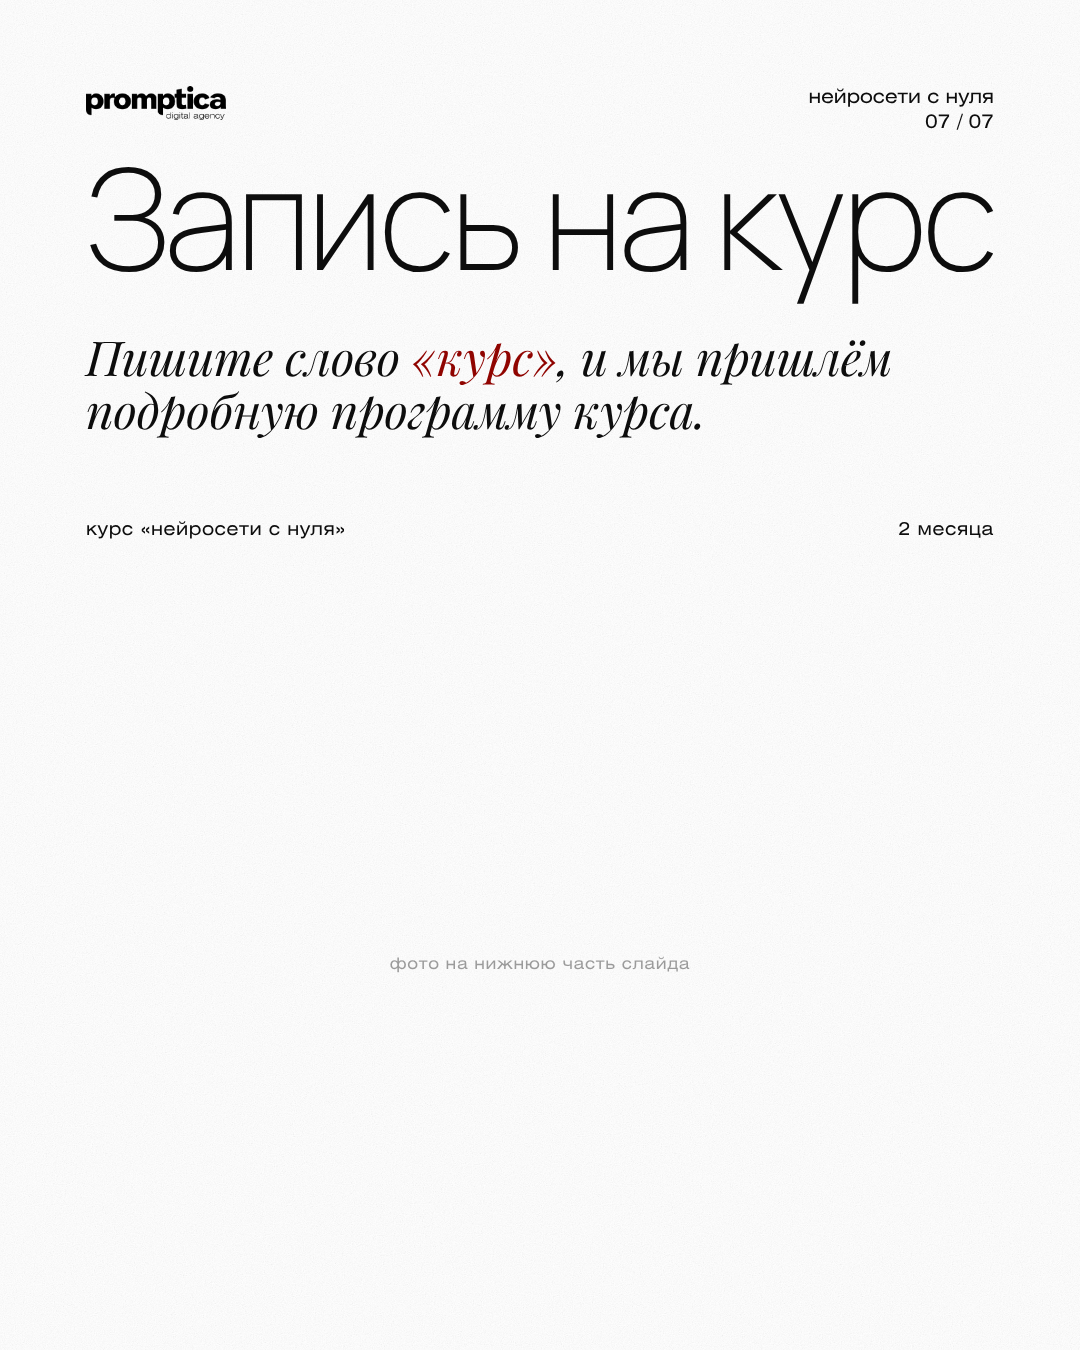
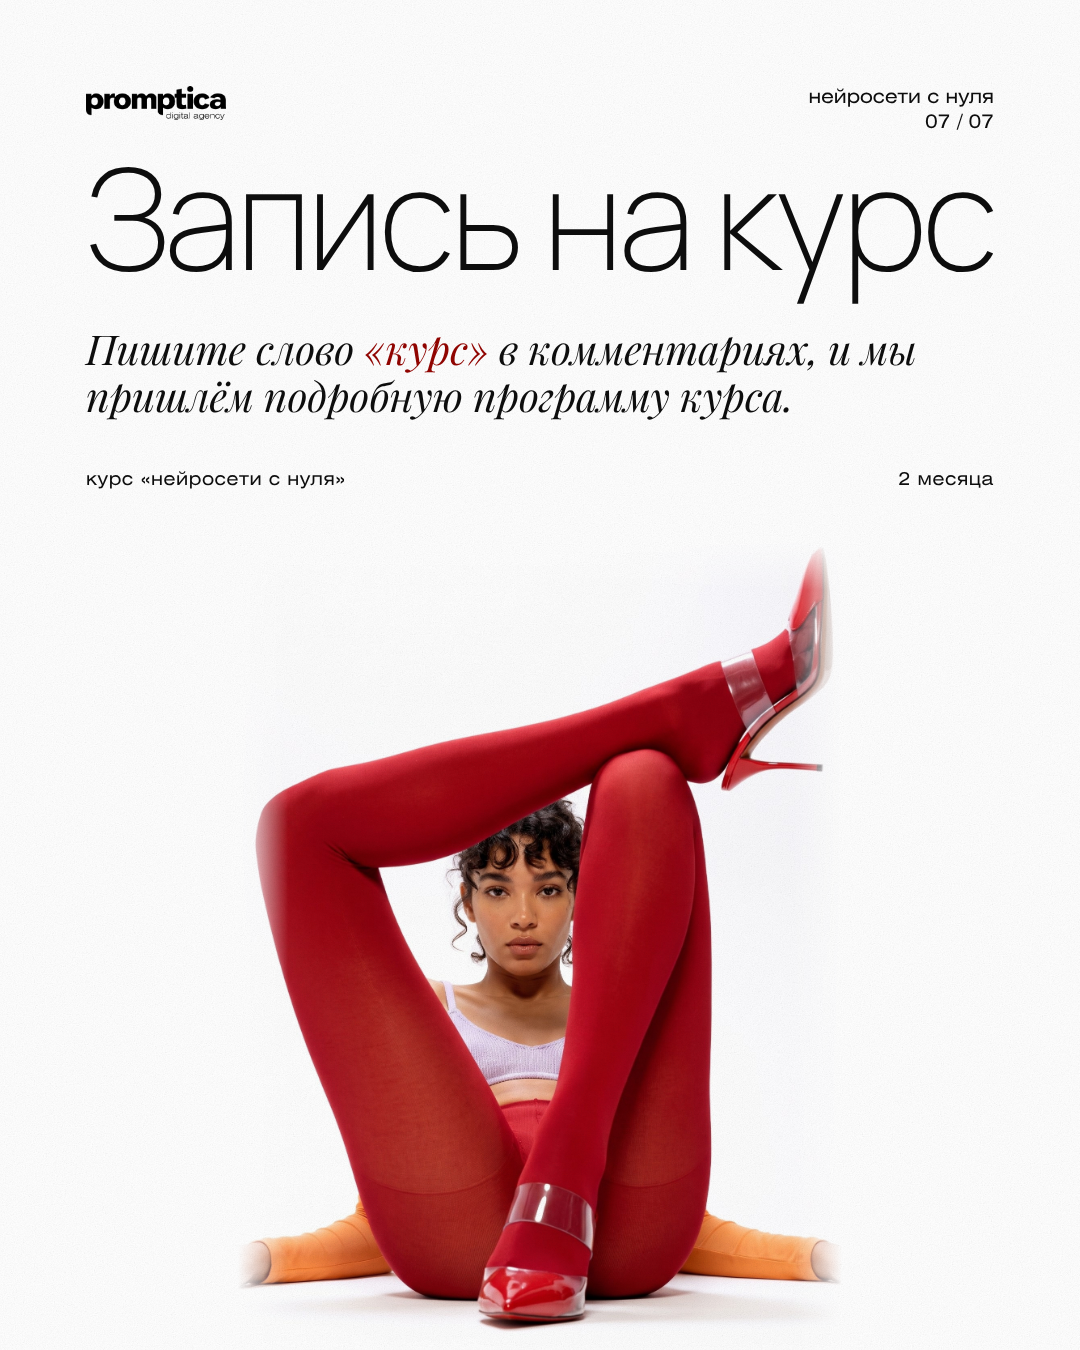
«Нейросети с нуля»: фото на последнем слайде, «в комментариях»
Claude-Session: https://claude.ai/code/session_01V1NUh11xrVMcB1cs4GV2qz

diff --git a/carousels/promptica-course/07.html b/carousels/promptica-course/07.html
@@ -8,9 +8,9 @@
 <body>
   <div class="slide ">
     <div class="abs" style="left:86px;top:150px"><div class="thin" data-fit="908" style="">Запись на курс</div></div>
-    <div class="abs it" style="left:86px;top:330px;width:900px;font-size:48px;line-height:1.1">Пишите слово <span class="rd">«курс»</span>, и мы пришлём подробную программу курса.</div>
-    <div class="abs mrow" style="left:86px;top:520px;width:908px"><span>курс «нейросети с нуля»</span><span>2 месяца</span></div>
-    <div class="ph" style="left:0px;top:580px;width:1080px;height:770px;background:#fff;-webkit-mask-image:linear-gradient(180deg,transparent 0,#000 40px);mask-image:linear-gradient(180deg,transparent 0,#000 40px)"><div class="hn">фото на нижнюю часть слайда</div><img src="img/07-a.jpg" alt="" style="object-position:50% 40%" onerror="this.remove()"></div>
+    <div class="abs it" style="left:86px;top:325px;width:908px;font-size:41px;line-height:1.14">Пишите слово <span class="rd">«курс»</span> в комментариях, и мы пришлём подробную программу курса.</div>
+    <div class="abs mrow" style="left:86px;top:470px;width:908px"><span>курс «нейросети с нуля»</span><span>2 месяца</span></div>
+    <div class="ph" style="left:238px;top:540px;width:604px;height:810px;background:#fff;-webkit-mask-image:linear-gradient(90deg,transparent 0,#000 50px,#000 calc(100% - 50px),transparent 100%),linear-gradient(180deg,transparent 0,#000 50px);-webkit-mask-composite:source-in;mask-composite:intersect"><div class="hn">фото на нижнюю часть слайда</div><img src="img/07-a.jpg" alt="" style="object-position:50% 50%" onerror="this.remove()"></div>
     <div class="hd"><img src="../../assets/logo_black.png" alt="promptica"></div>
     <div class="mt">нейросети с нуля<br>07 / 07</div>
     <svg class="grain"><filter id="g"><feTurbulence type="fractalNoise" baseFrequency=".9" numOctaves="3" seed="7" stitchTiles="stitch"/><feColorMatrix type="saturate" values="0"/></filter><rect width="100%" height="100%" filter="url(#g)"/></svg>

diff --git a/carousels/promptica-course/build.py b/carousels/promptica-course/build.py
@@ -84,7 +84,7 @@ page(6, '''    <div class="abs" style="left:0;top:0;width:1080px;height:900px;ba
     <div class="abs mrow" style="left:86px;top:848px;width:908px;color:#fff7e6"><span>гайды</span><span>домашнее задание</span><span>бонус-урок</span></div>''', '', 'logo_cream.png', ' style="color:#fff7e6"')
 # 7 — запись: текст сверху, фото вылетом снизу (белый фон — фото переходит без шва)
 page(7, f'''{fit('Запись на курс',908,150,86,'thin')}
-    <div class="abs it" style="left:86px;top:330px;width:900px;font-size:48px;line-height:1.1">Пишите слово <span class="rd">«курс»</span>, и мы пришлём подробную программу курса.</div>
-    <div class="abs mrow" style="left:86px;top:520px;width:908px"><span>курс «нейросети с нуля»</span><span>2 месяца</span></div>
-{ph(0,580,1080,770,'фото на нижнюю часть слайда','07-a.jpg','50% 40%',';background:#fff;-webkit-mask-image:linear-gradient(180deg,transparent 0,#000 40px);mask-image:linear-gradient(180deg,transparent 0,#000 40px)')}''')
+    <div class="abs it" style="left:86px;top:325px;width:908px;font-size:41px;line-height:1.14">Пишите слово <span class="rd">«курс»</span> в комментариях, и мы пришлём подробную программу курса.</div>
+    <div class="abs mrow" style="left:86px;top:470px;width:908px"><span>курс «нейросети с нуля»</span><span>2 месяца</span></div>
+{ph(238,540,604,810,'фото на нижнюю часть слайда','07-a.jpg','50% 50%',';background:#fff;-webkit-mask-image:linear-gradient(90deg,transparent 0,#000 50px,#000 calc(100% - 50px),transparent 100%),linear-gradient(180deg,transparent 0,#000 50px);-webkit-mask-composite:source-in;mask-composite:intersect')}''')
 print('слайдов:', TOTAL)
